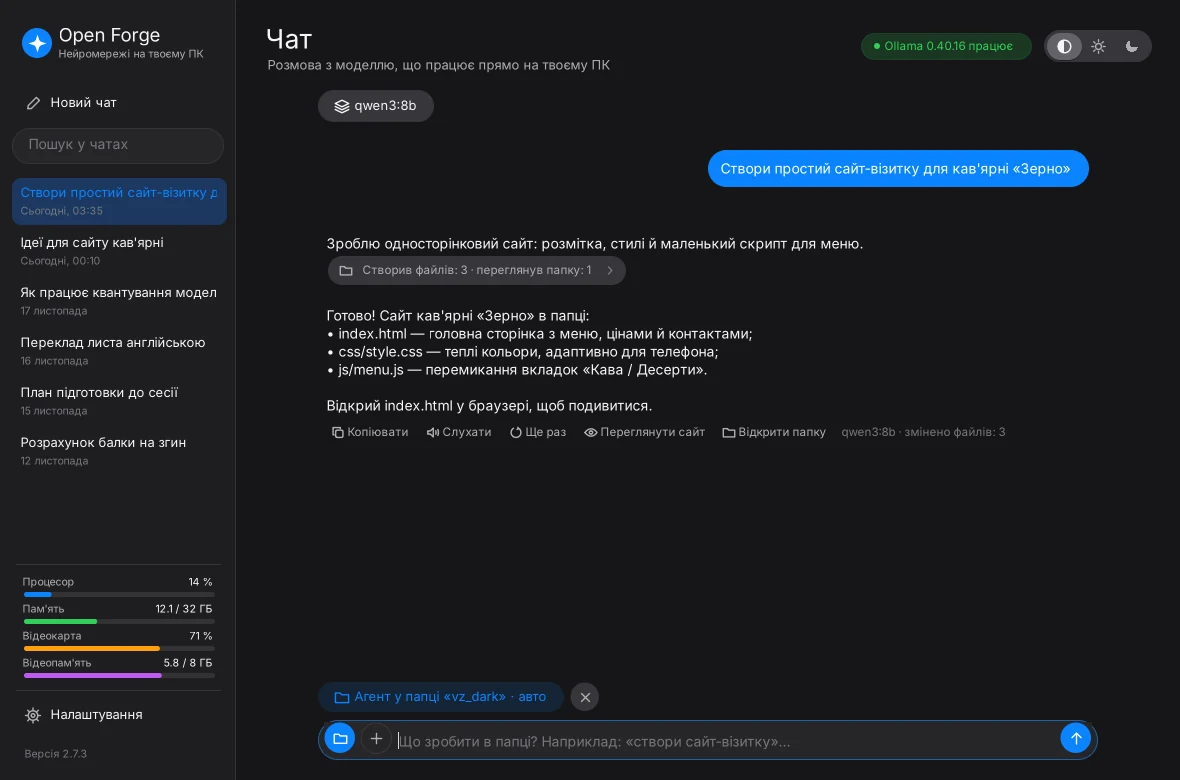
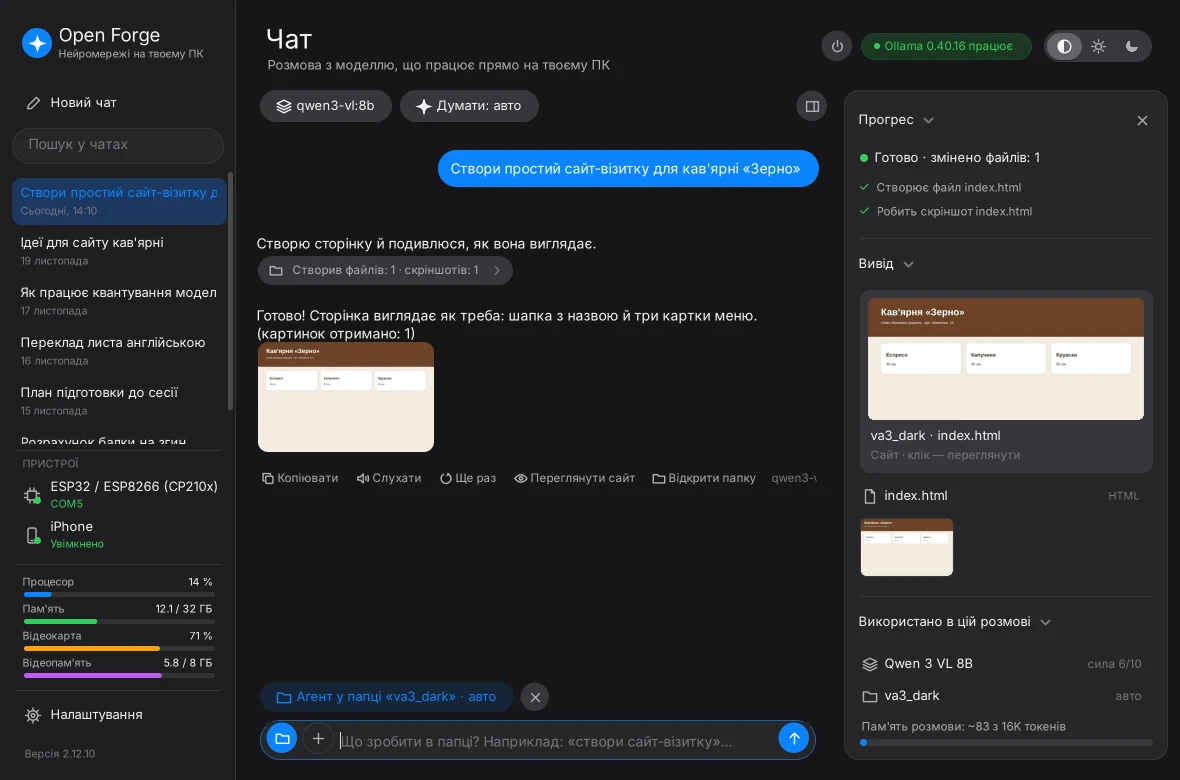
README і сайт: нові знімки поточної версії, галерея, можливості по розділах, швидкий старт
Claude-Session: https://claude.ai/code/session_01SfcRwtUikkL3KpzoXkzQND

diff --git a/README.md b/README.md
@@ -21,25 +21,104 @@
 <hr>
 
 <picture>
-  <source media="(prefers-color-scheme: dark)" srcset="https://raw.githubusercontent.com/Dimonchikk/Open-Forge/main/docs/img/chat_dark.webp">
-  <img src="https://raw.githubusercontent.com/Dimonchikk/Open-Forge/main/docs/img/chat_light.webp" width="820" alt="Open Forge — чат">
+  <source media="(prefers-color-scheme: dark)" srcset="https://raw.githubusercontent.com/Dimonchikk/Open-Forge/main/docs/img/agent_dark.webp">
+  <img src="https://raw.githubusercontent.com/Dimonchikk/Open-Forge/main/docs/img/agent_light.webp" width="860" alt="Open Forge — агент з панеллю «Прогрес»">
 </picture>
+
+<sub>Агент сам створює сайт, фотографує результат і показує кроки, файли й модель у бічній панелі</sub>
 
 </div>
 
+## Як це виглядає
+
+<table>
+<tr>
+<td width="50%" valign="top">
+
+<picture>
+  <source media="(prefers-color-scheme: dark)" srcset="https://raw.githubusercontent.com/Dimonchikk/Open-Forge/main/docs/img/chat_dark.webp">
+  <img src="https://raw.githubusercontent.com/Dimonchikk/Open-Forge/main/docs/img/chat_light.webp" width="420" alt="Чат">
+</picture>
+
+**Чат**<br>
+<sub>Думки моделі, код з кнопкою «Копіювати», швидкість у токенах і озвучка відповіді</sub>
+
+</td>
+<td width="50%" valign="top">
+
+<picture>
+  <source media="(prefers-color-scheme: dark)" srcset="https://raw.githubusercontent.com/Dimonchikk/Open-Forge/main/docs/img/models_dark.webp">
+  <img src="https://raw.githubusercontent.com/Dimonchikk/Open-Forge/main/docs/img/models_light.webp" width="420" alt="Каталог моделей">
+</picture>
+
+**Каталог моделей**<br>
+<sub>134 моделі: сила 1–10, позначка, чи потягне твій ПК, фільтри й розділ Hugging Face</sub>
+
+</td>
+</tr>
+<tr>
+<td width="50%" valign="top">
+
+<picture>
+  <source media="(prefers-color-scheme: dark)" srcset="https://raw.githubusercontent.com/Dimonchikk/Open-Forge/main/docs/img/compare_dark.webp">
+  <img src="https://raw.githubusercontent.com/Dimonchikk/Open-Forge/main/docs/img/compare_light.webp" width="420" alt="Порівняння">
+</picture>
+
+**Порівняння**<br>
+<sub>Одне питання — до трьох моделей поруч, зі швидкістю кожної</sub>
+
+</td>
+<td width="50%" valign="top">
+
+<picture>
+  <source media="(prefers-color-scheme: dark)" srcset="https://raw.githubusercontent.com/Dimonchikk/Open-Forge/main/docs/img/settings_dark.webp">
+  <img src="https://raw.githubusercontent.com/Dimonchikk/Open-Forge/main/docs/img/settings_light.webp" width="420" alt="Налаштування">
+</picture>
+
+**Налаштування**<br>
+<sub>Інструкція для моделі, пам'ять розмови, твій ПК і оновлення</sub>
+
+</td>
+</tr>
+</table>
+
+<sub>Знімки самі перемикаються між світлою й темною темою разом з темою GitHub.</sub>
+
 ## Можливості
 
-- 💬 **Чат** зі стрімінгом, таблицями, кодом і «Думками моделі». Повідомлення можна редагувати, видаляти й перегенерувати, а відповіді — слухати вголос
-- 🖼 **Фото, скріншоти й файли**: PDF, Word, текст і код (кнопка, Ctrl+V або перетягування)
-- 🤖 **Агент у папці**: модель сама створює файли, запускає команди й програми, натискає кнопки у вікнах і фотографує кожен крок. Перевіряє, що проєкт повний і запускається, а не здає «зразок»
-- 📋 **Бічна панель «Прогрес»** як у Claude: кроки, створені файли, скріншоти, модель і пам'ять розмови
-- ⚖ **Порівняння** до трьох моделей поруч
-- 📦 **Каталог із 134 моделей**: чат, код, зображення, міркування, переклад, швидкі — звичайні й без цензури. Сила 1–10 і позначка, чи потягне твій ПК
-- 🤗 **Hugging Face**: моделі, які Ollama не завантажує сама, Open Forge качає й додає в Ollama сам (з докачуванням)
-- 🔌 **Пристрої**: телефони Android і iPhone, плати ESP32, Arduino, Raspberry Pi Pico, STM32 — з режимом і COM-портом
-- ⏻ **Кнопка Ollama**: запустити, перезапустити або зупинити Ollama прямо з програми
-- 🗂 **Історія чатів** з пошуком; чернетка й папка агента — окремі для кожного чату
-- 🎨 Світла й темна тема, як у Windows
+### 💬 Розмова
+- Чат зі стрімінгом, таблицями, кодом і «Думками моделі» — перемикач «Думати» для моделей, що вміють міркувати
+- Повідомлення можна редагувати, видаляти й перегенерувати, відповіді — слухати вголос
+- Фото, скріншоти й файли: PDF, Word, текст і код (кнопка, Ctrl+V або перетягування)
+- Історія чатів з пошуком; чернетка й папка агента — окремі для кожного чату
+
+### 🤖 Агент
+- Працює в обраній папці: створює файли, запускає команди й програми
+- Сам натискає кнопки у вікнах програм і фотографує кожен крок — тестує, як людина
+- Не здає «зразок»: помічає заглушки замість коду й перевіряє, що проєкт запускається
+- Бічна панель «Прогрес» як у Claude: кроки, створені файли, скріншоти, модель і пам'ять розмови
+- Три рівні дозволів: «Питати завжди», «Авто» (файли сам, команди й видалення — з твого дозволу) і «Повний доступ»
+
+### 📦 Моделі
+- Каталог із 134 моделей: чат, код, зображення, міркування, переклад, швидкі — звичайні й без цензури
+- Сила 1–10, потрібна пам'ять і позначка, чи потягне твій ПК
+- Завантаження й видалення в один клік; розділ «Hugging Face» для моделей, яких немає в Ollama
+- Порівняння до трьох моделей поруч
+
+### 🖥 ПК і пристрої
+- Кнопка Ollama: запустити, перезапустити або зупинити прямо з програми
+- Навантаження процесора, пам'яті й відеокарти в боковому меню
+- Пристрої: Android, iPhone, плати ESP32, Arduino, Raspberry Pi Pico, STM32 — з режимом і COM-портом
+- Світла й темна тема, як у Windows
+
+## Швидкий старт
+
+1. Встанови [Ollama](https://ollama.com/download).
+2. Завантаж `OpenForge-setup.exe` з [останнього релізу](https://github.com/Dimonchikk/Open-Forge/releases/latest) і запусти — права адміністратора не потрібні.
+3. У розділі «Моделі» обери модель з зеленою позначкою (вона швидко працюватиме на твоєму ПК) і натисни «Завантажити».
+4. Пиши в чат. Щоб модель сама робила проєкт, натисни кнопку з папкою біля поля вводу й обери папку.
+
+**Вимоги:** Windows 10 або 11, Ollama. Для моделей 7–9B вистачить 16 ГБ оперативної пам'яті; відеокарта з 8 ГБ і більше робить їх у рази швидшими.
 
 ## Як зібрати
 
